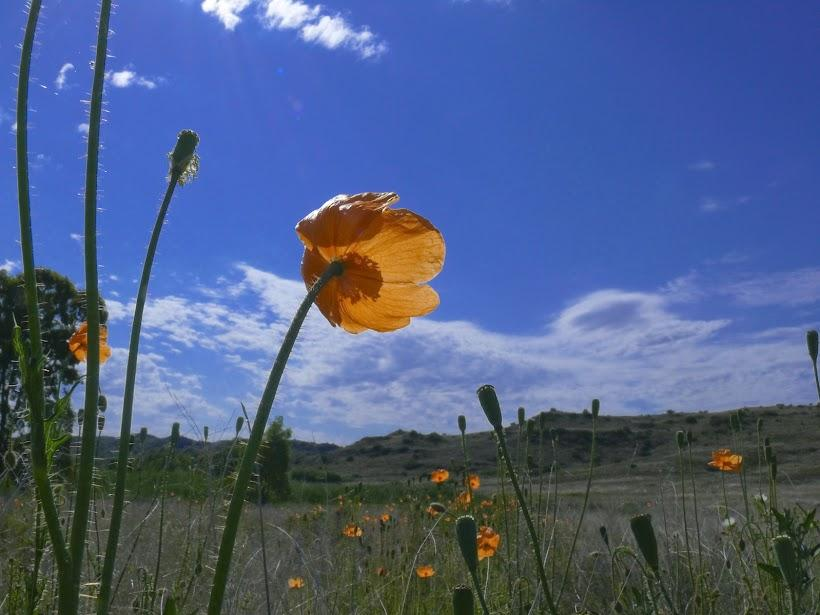
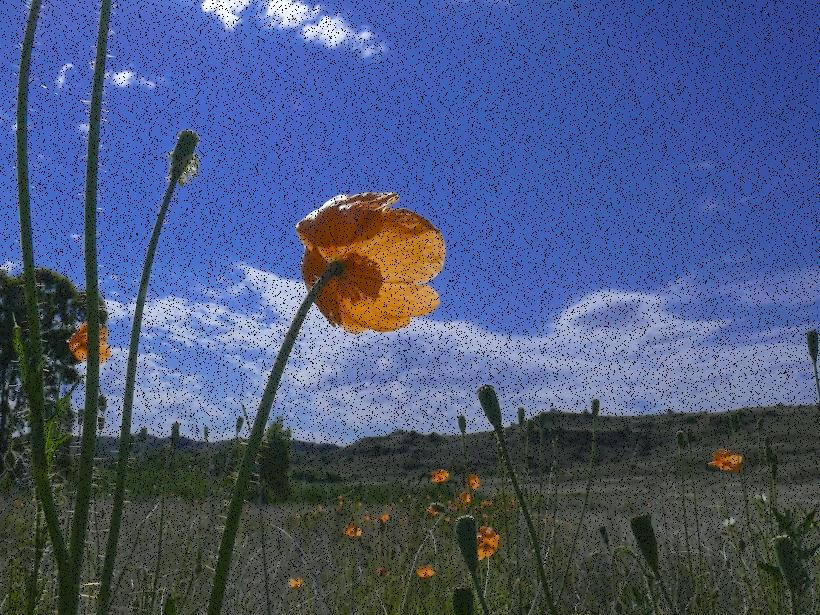
Finshed for the most part. Needs some finishing touches.

diff --git a/main.py b/main.py
@@ -10,6 +10,7 @@
 # Importing PIL.Image library and os library
 from PIL import Image #from PIL import Image 
 import os
+import random
 
 # Deletes old created images if they exist
 images = ["combinedFilters.jpg","filter1.jpg","filter2.jpg","filter3.jpg","grey.jpg"]
@@ -99,15 +100,15 @@ def filter1():
     r = p[0]
     g = p[1]
     b = p[2]
-    for i in range(0, len(new_pixels), 50):
-      newr = 0
-      newg = 0
-      newb = 0
+    newr = 0
+    newg = 0
+    newb = 0
     # Assign new red, green and blue components to pixel
     # at that specific location
     new_pixels[location] = (newr, newg, newb)
+    num = random.randint(1,25)
     # Changes the location to the next pixel in array
-    location = location + 1
+    location = location + num
   # Creates a new image, the same size as the original 
   # using RGB value format
   newImage = Image.new("RGB", img.size)
@@ -115,10 +116,7 @@ def filter1():
   newImage.putdata(new_pixels)
   # Sends the newImage back to the main portion of program
   return newImage
-  
-  
-print("Code for filter1")
-  newImage = img
+  #newImage = img
   return newImage
 
 #####################################
@@ -131,9 +129,24 @@ def filter2():
   return newImage
 
 def filter3():
-  print("Code for filter3")
-  newImage = img
-  return newImage
+    factor =  float(input("How bright would you like the picture (e.g., 1.2 for 20% brightness, 0.8 20% dimmer): "))
+
+    pixels = img.getdata() 
+    new_pixels = []
+    for i in pixels:
+        n = int(i[0] * factor)
+        m = int(i[1] * factor)
+        p = int(i[2] * factor)
+
+        n = min(255, max(0, n))
+        m = min(255, max(0, m))
+        p = min(255, max(0, p))
+
+        new_pixels.append((n, m, p))
+
+    newImage = Image.new("RGB", img.size)
+    newImage.putdata(new_pixels)
+    return newImage
 
 # Creates the four filter images and saves them to our files
 a = grey()
